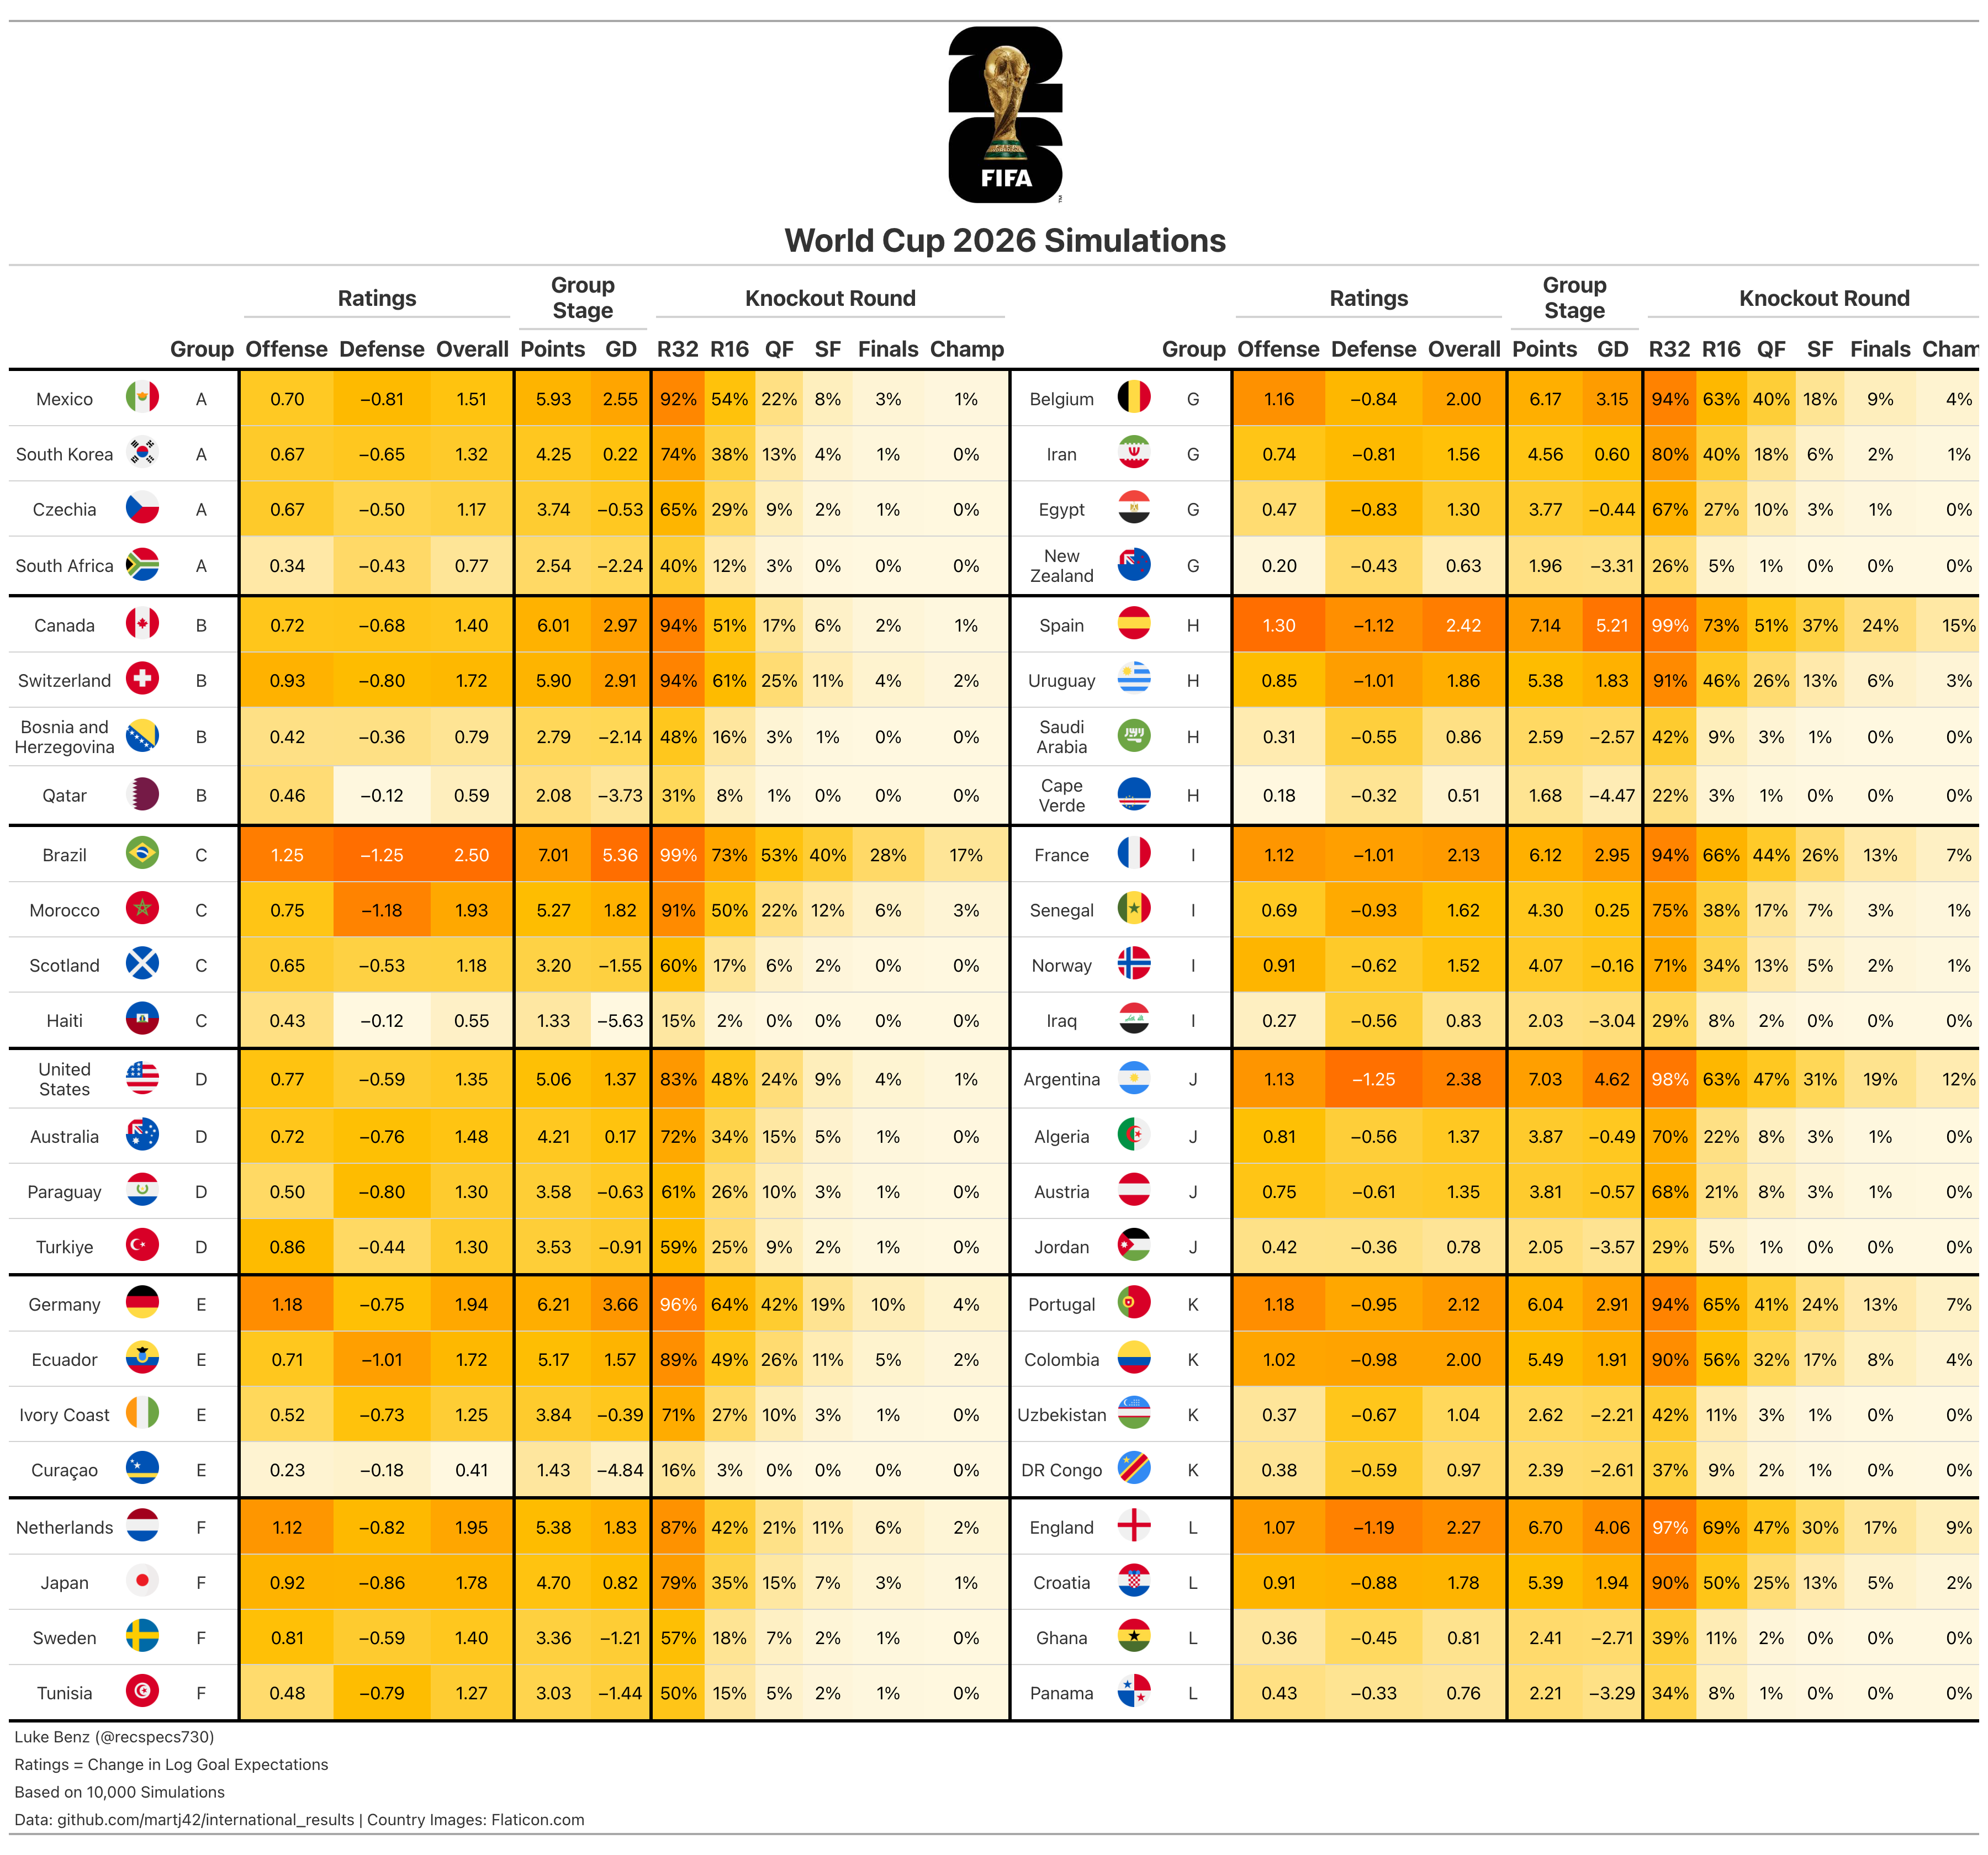
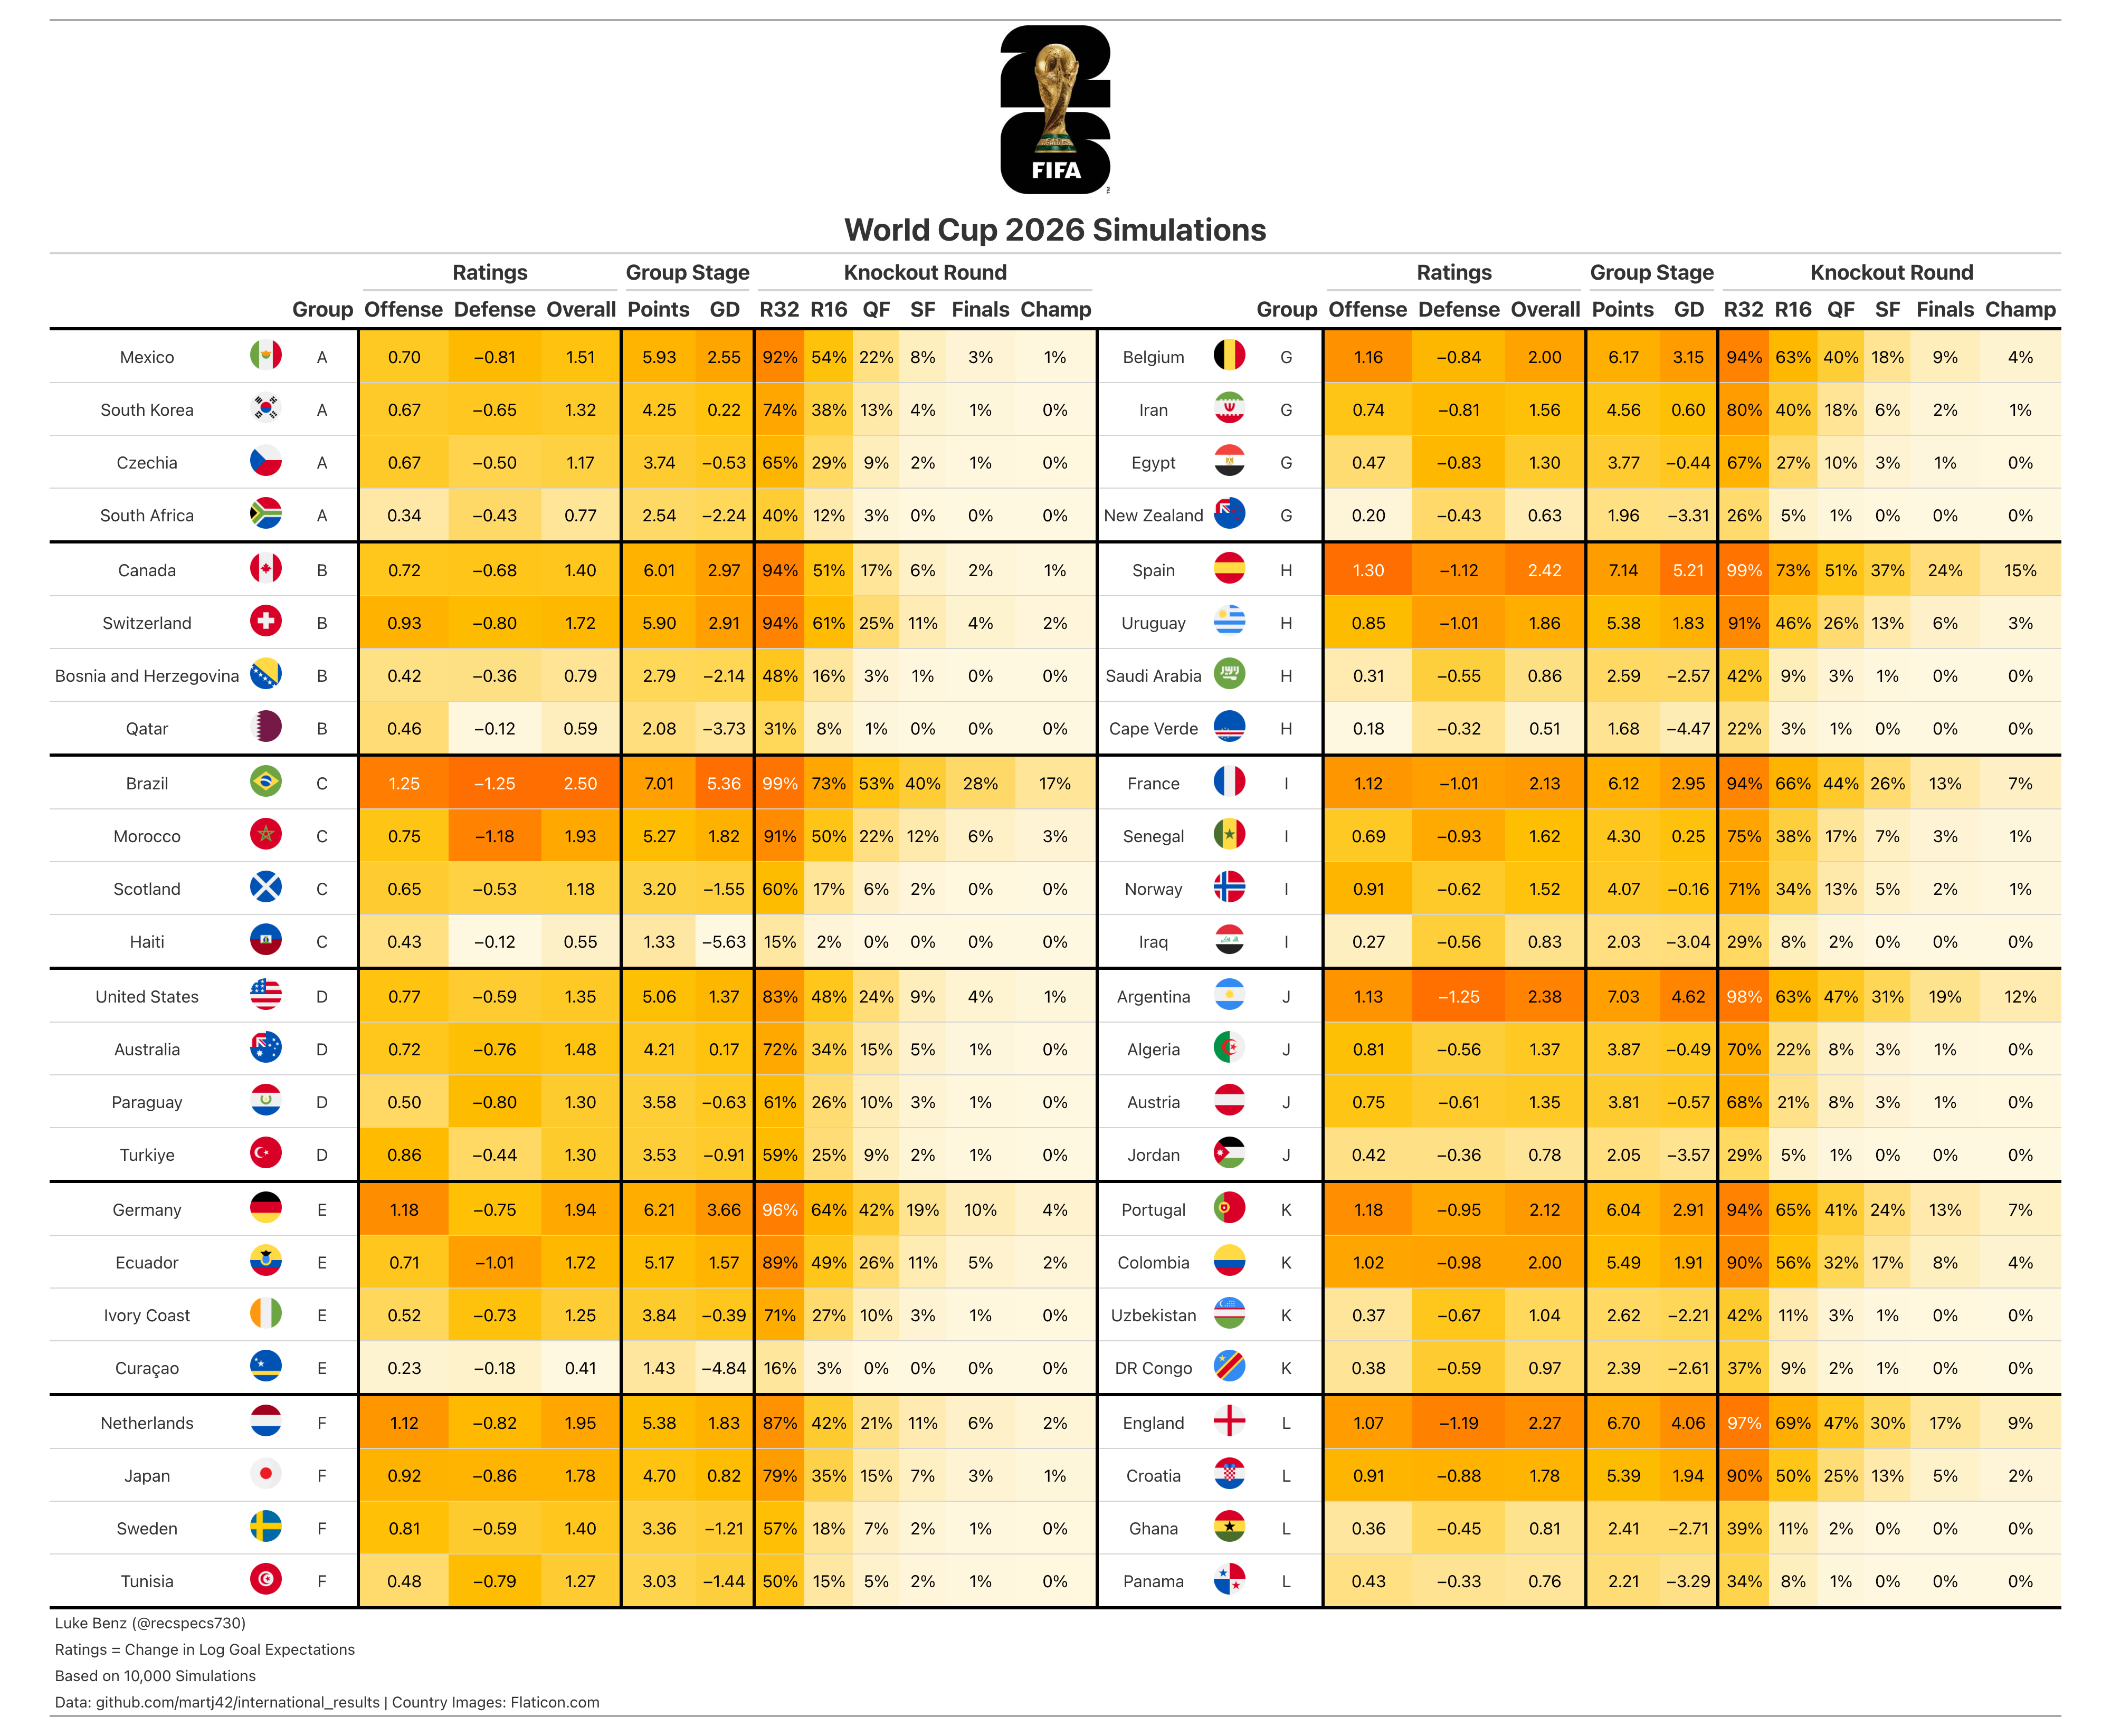
fix readme

diff --git a/README.md b/README.md
@@ -24,9 +24,6 @@ mu            = -0.07715556
 * __update_scores.R:__ Scrapes live scores from ESPN and updates __data/schedule.csv__.
 * __auto_update.R:__ Runs the full pipeline (scores → sims → tables → graphics) in one step.
 
-#### Tournament Format
-
-48 teams across 12 groups (A–L). Top 2 from each group + best 8 of 12 third-place teams advance to the Round of 32. Hosts: United States, Canada (home field advantage), Mexico (home field advantage).
 
 #### Data
 